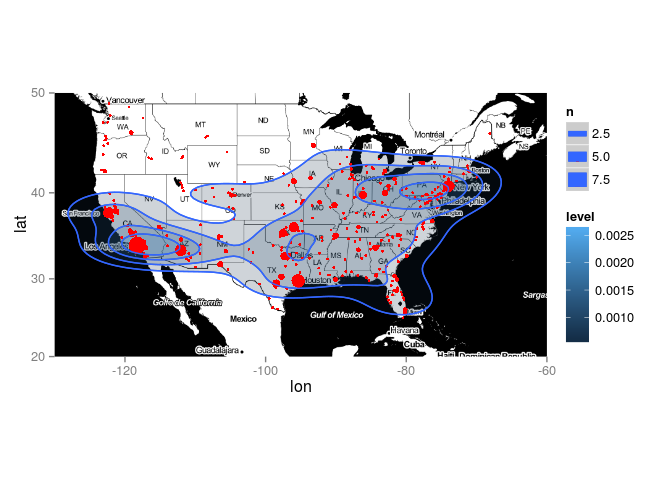
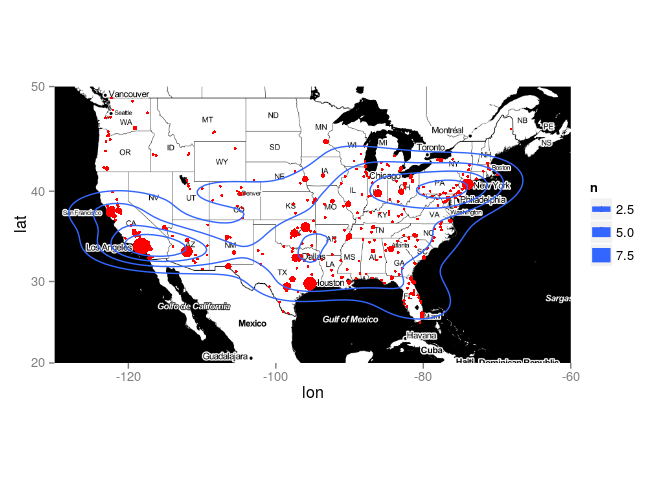
Update

Changed region(s): [[0.0312, 0.1562, 0.9688, 0.8438], [0.0312, 0.5625, 0.0938, 0.5938], [0.0312, 0.375, 0.0625, 0.4062]]

diff --git a/lesson/5-case_studies/README.md b/lesson/5-case_studies/README.md
@@ -181,7 +181,7 @@ ggmap(usmap) +
 ![](README_files/figure-markdown_github/unnamed-chunk-5-2.png)
 
 ``` r
-plot_killed +
+ggmap(usmap) +
   geom_point(data = killed,
              aes(x = lon, y = lat, size = ..n..),
              stat = "sum",
@@ -194,22 +194,13 @@ plot_killed +
     ## Warning in loop_apply(n, do.ply): Removed 7 rows containing non-finite
     ## values (stat_density2d).
 
-    ## Warning in loop_apply(n, do.ply): Removed 7 rows containing non-finite
-    ## values (stat_density2d).
-
-    ## Warning in loop_apply(n, do.ply): Removed 7 rows containing non-finite
-    ## values (stat_density2d).
-
-    ## Warning in loop_apply(n, do.ply): Removed 3 rows containing missing values
-    ## (geom_point).
-
     ## Warning in loop_apply(n, do.ply): Removed 3 rows containing missing values
     ## (geom_point).
 
 ![](README_files/figure-markdown_github/unnamed-chunk-5-3.png)
 
 ``` r
-plot_killed +
+ggmap(usmap) +
   geom_point(data = killed,
              aes(x = lon, y = lat, size = ..n..),
              stat = "sum",
@@ -230,22 +221,13 @@ plot_killed +
     ## Warning in loop_apply(n, do.ply): Removed 7 rows containing non-finite
     ## values (stat_density2d).
 
-    ## Warning in loop_apply(n, do.ply): Removed 7 rows containing non-finite
-    ## values (stat_density2d).
-
-    ## Warning in loop_apply(n, do.ply): Removed 7 rows containing non-finite
-    ## values (stat_density2d).
-
-    ## Warning in loop_apply(n, do.ply): Removed 3 rows containing missing values
-    ## (geom_point).
-
     ## Warning in loop_apply(n, do.ply): Removed 3 rows containing missing values
     ## (geom_point).
 
 ![](README_files/figure-markdown_github/unnamed-chunk-5-4.png)
 
 ``` r
-plot_killed +
+ggmap(usmap) +
   geom_point(data = killed,
              aes(x = lon, y = lat, size = ..n..),
              stat = "sum",
@@ -273,24 +255,6 @@ plot_killed +
 
     ## Warning in loop_apply(n, do.ply): Removed 2 rows containing non-finite
     ## values (stat_density2d).
-
-    ## Warning in loop_apply(n, do.ply): Removed 5 rows containing non-finite
-    ## values (stat_density2d).
-
-    ## Warning in loop_apply(n, do.ply): Removed 2 rows containing non-finite
-    ## values (stat_density2d).
-
-    ## Warning in loop_apply(n, do.ply): Removed 5 rows containing non-finite
-    ## values (stat_density2d).
-
-    ## Warning in loop_apply(n, do.ply): Removed 2 rows containing non-finite
-    ## values (stat_density2d).
-
-    ## Warning in loop_apply(n, do.ply): Removed 3 rows containing missing values
-    ## (geom_point).
-
-    ## Warning in loop_apply(n, do.ply): Removed 2 rows containing missing values
-    ## (geom_point).
 
     ## Warning in loop_apply(n, do.ply): Removed 3 rows containing missing values
     ## (geom_point).
